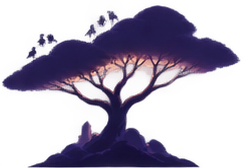
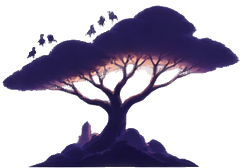
FLYWAY Phases 6-7: journey storytelling, homecoming murmuration, results
Phase 6: roost clarifies on the horizon from mid-game and grows with real
progress; dusk warmth overlay ramps across the Day (no progress bar).
Phase 7: final approach — waves of birds JOIN the controllable flock (sim
cap 320) plus ~260 echo birds that trail leaders for visual mass in the
hundreds; home chord swell; roost halo alpha-cleaned; prompts force-clear
at the finale. Results screen rework: Returned/Found/Lost + three stars
each with its reason ('96/110 required', 'n/m Perfect Flow passages').

diff --git a/src/scenes/ResultsScene.ts b/src/scenes/ResultsScene.ts
@@ -2,11 +2,11 @@ import Phaser from 'phaser'
 import { DayStats } from './DayScene'
 import { W as VIEW_W, H as VIEW_H } from '../backdrop'
 import { ART } from '../artManifest'
+import { DAY_NAME, FLOCK_STAR_RETURNED, FLOW_STAR_FRACTION } from '../config'
 
 /**
- * Restrained end-of-day rating. HOME always lights (you only arrive here by
- * reaching the roost); FLOCK rewards a strong return / good stray collection;
- * FLOW rewards a clean flight with few resets and few collisions.
+ * End-of-day rating. Every star shows WHY it was earned or missed — the
+ * player should leave knowing exactly what to improve.
  */
 export class ResultsScene extends Phaser.Scene {
   constructor() {
@@ -17,83 +17,77 @@ export class ResultsScene extends Phaser.Scene {
     const plate = ART['bg_plate']
     const cover = Math.max(VIEW_W / plate.w, VIEW_H / plate.h)
     this.add.image(VIEW_W / 2, VIEW_H / 2, 'bg_plate').setDisplaySize(plate.w * cover, plate.h * cover)
-    this.add.rectangle(0, 0, VIEW_W, VIEW_H, 0x1a1530, 0.35).setOrigin(0)
+    this.add.rectangle(0, 0, VIEW_W, VIEW_H, 0x1a1530, 0.38).setOrigin(0)
 
     const cx = VIEW_W / 2
-    const style = (size: number, color = '#f2e8f5', letterSpacing = 0) =>
-      ({
-        fontFamily: 'Georgia, serif',
-        fontSize: `${size}px`,
-        color,
-        letterSpacing,
-      }) as Phaser.Types.GameObjects.Text.TextStyle
+    const style = (size: number, color = '#f2e8f5', ls = 0) =>
+      ({ fontFamily: 'Georgia, serif', fontSize: `${size}px`, color, letterSpacing: ls }) as Phaser.Types.GameObjects.Text.TextStyle
 
-    const title = this.add.text(cx, 150, 'DAY 1 — HOME', style(38, '#f2e8f5', 6)).setOrigin(0.5).setAlpha(0)
+    const title = this.add.text(cx, 128, `${DAY_NAME} — HOME`, style(38, '#f7f0ea', 6)).setOrigin(0.5).setAlpha(0)
 
-    const returned = this.add
-      .text(cx, 250, `Returned    ${stats.returned}`, style(24))
-      .setOrigin(0.5)
-      .setAlpha(0)
-    const found = this.add
-      .text(cx, 288, `Found    ${stats.found}`, style(24, '#d8c8dc'))
-      .setOrigin(0.5)
-      .setAlpha(0)
+    // ---- the three numbers that tell the story of the run
+    const rows: Array<[string, string, string]> = [
+      ['Returned', String(stats.returned), '#f2e8f5'],
+      ['Found', `+${stats.found}`, '#ffd9a0'],
+      ['Lost', String(stats.lost), '#c9a2a2'],
+    ]
+    const rowObjs: Phaser.GameObjects.Text[] = []
+    rows.forEach(([k, v, c], i) => {
+      const y = 218 + i * 40
+      rowObjs.push(this.add.text(cx - 30, y, k, style(21, '#cdbdd4')).setOrigin(1, 0.5).setAlpha(0))
+      rowObjs.push(this.add.text(cx + 30, y, v, style(24, c)).setOrigin(0, 0.5).setAlpha(0))
+    })
 
-    const homeStar = stats.returned > 0
-    const flockStar = stats.returned >= 100 || stats.found >= 20
-    const flowStar = stats.collisionEvents <= 12 && stats.resets === 0
+    // ---- stars, each with its reason
+    const flowNeeded = Math.max(1, Math.ceil(stats.flowTotal * FLOW_STAR_FRACTION))
+    const homeStar = true // reaching this scene IS reaching the roost
+    const flockStar = stats.returned >= FLOCK_STAR_RETURNED
+    const flowStar = stats.flow >= flowNeeded
 
-    const starRow = this.add.container(cx, 400).setAlpha(0)
-    const labels = [
+    const reasons: Array<[string, boolean, string]> = [
       ['HOME', homeStar, 'Reached the roost.'],
-      ['FLOCK', flockStar, 'Returned strong, or gathered the optional birds.'],
-      ['FLOW', flowStar, 'Clean flight — few collisions, no resets.'],
-    ] as const
-    labels.forEach(([label, earned], i) => {
-      const x = (i - 1) * 220
-      const star = this.add
-        .text(x, 0, earned ? '★' : '☆', {
-          fontFamily: 'Georgia, serif',
-          fontSize: '44px',
-          color: earned ? '#f6d9b8' : '#5c5270',
-        })
-        .setOrigin(0.5)
-      const lab = this.add
-        .text(x, 42, label, { fontFamily: 'Georgia, serif', fontSize: '14px', color: '#d8c8dc', letterSpacing: 3 } as Phaser.Types.GameObjects.Text.TextStyle)
-        .setOrigin(0.5)
-      starRow.add([star, lab])
+      [
+        'FLOCK',
+        flockStar,
+        flockStar ? `Returned with ${stats.returned} birds.` : `${stats.returned} / ${FLOCK_STAR_RETURNED} required`,
+      ],
+      ['FLOW', flowStar, `${stats.flow} / ${stats.flowTotal} Perfect Flow passages`],
+    ]
+
+    const starRow = this.add.container(cx, 452).setAlpha(0)
+    reasons.forEach(([label, earned, why], i) => {
+      const x = (i - 1) * 320
+      starRow.add(
+        this.add
+          .text(x, 0, earned ? '★' : '☆', { fontFamily: 'Georgia, serif', fontSize: '46px', color: earned ? '#f6d9b8' : '#5c5270' })
+          .setOrigin(0.5),
+      )
+      starRow.add(this.add.text(x, 46, label, style(15, '#dccce0', 4)).setOrigin(0.5))
+      starRow.add(this.add.text(x, 74, why, style(13, earned ? '#c9b8a2' : '#a08f96')).setOrigin(0.5))
     })
 
     const earnedCount = [homeStar, flockStar, flowStar].filter(Boolean).length
     const overall = this.add
-      .text(cx, 470, '★'.repeat(earnedCount) + '☆'.repeat(3 - earnedCount), {
-        fontFamily: 'Georgia, serif',
-        fontSize: '30px',
-        color: '#f6d9b8',
-      })
+      .text(cx, 588, '★'.repeat(earnedCount) + '☆'.repeat(3 - earnedCount), style(32, '#f6d9b8'))
       .setOrigin(0.5)
       .setAlpha(0)
 
     const replay = this.add
-      .text(cx, 560, 'REPLAY DAY', style(18, '#f2e8f5', 4))
+      .text(cx, 680, 'REPLAY DAY', style(22, '#f7f0ea', 5))
       .setOrigin(0.5)
       .setAlpha(0)
       .setInteractive({ useHandCursor: true })
-    const replayHint = this.add
-      .text(cx, 590, 'click, or press R', { fontFamily: 'Georgia, serif', fontSize: '13px', color: '#a597ae' })
-      .setOrigin(0.5)
-      .setAlpha(0)
-
-    replay.on('pointerover', () => replay.setColor('#f6d9b8'))
-    replay.on('pointerout', () => replay.setColor('#f2e8f5'))
+    const replayHint = this.add.text(cx, 712, 'click, or press R', style(13, '#a597ae')).setOrigin(0.5).setAlpha(0)
+    replay.on('pointerover', () => replay.setColor('#ffe6bf'))
+    replay.on('pointerout', () => replay.setColor('#f7f0ea'))
     const restart = () => this.scene.start('Day')
     replay.on('pointerdown', restart)
     this.input.keyboard?.once('keydown-R', restart)
 
-    this.tweens.add({ targets: title, alpha: 0.95, duration: 900 })
-    this.tweens.add({ targets: [returned, found], alpha: 0.9, duration: 900, delay: 500 })
+    this.tweens.add({ targets: title, alpha: 0.96, duration: 900 })
+    this.tweens.add({ targets: rowObjs, alpha: 0.92, duration: 800, delay: 500 })
     this.tweens.add({ targets: starRow, alpha: 1, duration: 900, delay: 1100 })
     this.tweens.add({ targets: overall, alpha: 1, duration: 700, delay: 1900 })
-    this.tweens.add({ targets: [replay, replayHint], alpha: 0.85, duration: 700, delay: 2400 })
+    this.tweens.add({ targets: [replay, replayHint], alpha: 0.9, duration: 700, delay: 2400 })
   }
 }

diff --git a/src/scenes/DayScene.ts b/src/scenes/DayScene.ts
@@ -5,6 +5,7 @@ import { StrayGroup } from '../strays'
 import { ScatterSystem } from '../scatter'
 import { GameAudio } from '../audio'
 import { FalconSystem } from '../falcon'
+import { birdFrameKey } from '../textures'
 import { ART } from '../artManifest'
 import {
   FEATURES,
@@ -90,6 +91,11 @@ export class DayScene extends Phaser.Scene {
   private fgBranch!: Phaser.GameObjects.Image
   private fgColumn!: Phaser.GameObjects.Image
   private colliderGfx!: Phaser.GameObjects.Graphics
+  private roostHorizon!: Phaser.GameObjects.Image
+  private warmth!: Phaser.GameObjects.Rectangle
+  /** decorative echo birds that swell the final murmuration into the hundreds */
+  private echoes: { img: Phaser.GameObjects.Image; leader: Bird; dx: number; dy: number; ph: number }[] = []
+  private joinTimer = 0
 
   private scrollX = 0
   private countText!: Phaser.GameObjects.Text
@@ -144,6 +150,8 @@ export class DayScene extends Phaser.Scene {
     this.strays = []
     this.ambientFlocks = []
     this.roostSwirl = []
+    this.echoes = []
+    this.joinTimer = 0
     this.parallax = []
     this.featureSprites.clear()
     this.obstacleFeature.clear()
@@ -196,6 +204,23 @@ export class DayScene extends Phaser.Scene {
       .setScrollFactor(0)
       .setAlpha(0.14)
       .setDepth(-4)
+
+    // the roost, faint on the horizon from mid-game — WE'RE GETTING CLOSE
+    this.roostHorizon = this.add
+      .image(VIEW_W * 0.82, 742, 'roost_tree')
+      .setOrigin(0.5, 1)
+      .setDisplaySize(90, 64)
+      .setAlpha(0)
+      .setScrollFactor(0)
+      .setDepth(-5)
+    // dusk warms across the day (screen-space, restrained)
+    this.warmth = this.add
+      .rectangle(0, 0, VIEW_W, VIEW_H, 0xff9a5c)
+      .setOrigin(0)
+      .setScrollFactor(0)
+      .setBlendMode(Phaser.BlendModes.OVERLAY)
+      .setDepth(7.5)
+      .setAlpha(0)
 
     // ---- obstacles: colliders from the manifest, sprites placed over them
     const built = buildObstacles()
@@ -463,8 +488,6 @@ export class DayScene extends Phaser.Scene {
     // soft distant swirl behind the tree, then the tree itself
     this.add.image(ROOST_X - 60, ROOST_Y - 190, 'flock_swirl').setDisplaySize(420, 420).setAlpha(0.5).setDepth(1.6)
     this.add.image(ROOST_X, 892, 'roost_tree').setOrigin(0.5, 1).setDisplaySize(860, 600).setDepth(2)
-    this.add.image(ROOST_X - 260, 806, 'spark_strand').setDisplaySize(46, 140).setAlpha(0.8).setDepth(2.1)
-    this.add.image(ROOST_X + 300, 780, 'spark_strand').setDisplaySize(40, 120).setAlpha(0.7).setDepth(2.1)
     for (let i = 0; i < 30; i++) {
       const sprite = this.add.image(ROOST_X, ROOST_Y, 'bird-mid').setScale(0.16).setDepth(2)
       this.roostSwirl.push({
@@ -596,6 +619,16 @@ export class DayScene extends Phaser.Scene {
     this.updateMovers(time)
     this.updateFlowGates()
     this.updateMotes()
+    // environmental progress storytelling: roost clarifies, light warms,
+    // distant flocks appear late — never a progress bar
+    const prog = Phaser.Math.Clamp(this.flock.centerX / ROOST_X, 0, 1)
+    if (prog > 0.42) {
+      const t01 = Phaser.Math.Clamp((prog - 0.42) / 0.5, 0, 1)
+      this.roostHorizon.setAlpha(Math.min(0.55, t01 * 0.55))
+      const grow = 90 + t01 * 130
+      this.roostHorizon.setDisplaySize(grow, grow * 0.72)
+    }
+    this.warmth.setAlpha(prog * 0.16)
     this.updateRoostSwirl(dt, time)
     this.updateAmbientFlocks(dt)
 
@@ -1084,18 +1117,68 @@ export class DayScene extends Phaser.Scene {
   }
 
   private checkFinish(dt: number): void {
+    // FINAL MURMURATION: distant flocks converge and JOIN the player's flock
+    const cx = this.flock.centerX
+    if (!this.finishing && cx > ROOST_X - 1500 && cx < ROOST_X - 200) {
+      this.joinTimer -= dt
+      if (this.joinTimer <= 0) {
+        this.joinTimer = 0.35
+        // real sim birds up to a perf-safe cap...
+        if (this.flock.count < 320) {
+          for (let i = 0; i < 5; i++) {
+            const side = Math.random() < 0.5 ? -1 : 1
+            this.flock.spawnBird(
+              cx + rand(300, 700) * side * 0.6 + 200,
+              this.flock.centerY + rand(-320, 320),
+              180,
+              rand(-40, 40),
+            )
+          }
+        }
+        // ...plus echo birds for visual mass into the hundreds
+        if (this.echoes.length < 260 && this.flock.birds.length > 0) {
+          for (let i = 0; i < 9; i++) {
+            const leader = this.flock.birds[(Math.random() * this.flock.birds.length) | 0]
+            const img = this.add
+              .image(leader.x + rand(-60, 60), leader.y + rand(-50, 50), 'bird-mid')
+              .setScale(rand(0.13, 0.2))
+              .setAlpha(rand(0.5, 0.8))
+              .setDepth(3.5)
+            this.echoes.push({ img, leader, dx: rand(-70, 70), dy: rand(-56, 56), ph: rand(0, 6) })
+          }
+        }
+        if (this.echoes.length === 9) this.audio.homeSwell()
+      }
+    }
+    // echoes trail their leaders — hundreds of birds for the cost of a lerp
+    const t = this.game.loop.time / 1000
+    for (const e of this.echoes) {
+      if (!e.leader.alive) {
+        if (this.flock.birds.length === 0) continue
+        e.leader = this.flock.birds[(Math.random() * this.flock.birds.length) | 0]
+      }
+      const wob = Math.sin(t * 2.2 + e.ph) * 7
+      e.img.x += (e.leader.x + e.dx + wob - e.img.x) * 0.12
+      e.img.y += (e.leader.y + e.dy + wob * 0.6 - e.img.y) * 0.12
+      e.img.rotation = e.leader.sprite.rotation
+      e.img.setTexture(birdFrameKey(t, e.ph, 9))
+    }
+
     if (this.finishing) {
       this.finishTimer += dt
-      if (this.finishTimer > 6) {
+      if (this.finishTimer > 7.5) {
         this.stats.returned = this.flock.count
         this.scene.start('Results', this.stats)
       }
       return
     }
-    if (this.flock.centerX >= ROOST_X - 280) {
+    if (cx >= ROOST_X - 240) {
       this.finishing = true
+      this.promptText.setAlpha(0)
+      this.prompt = null
       this.showPrompt('home', 'home', () => this.finishTimer > 3)
       this.audio.chime(392, 0.3)
+      this.audio.warmth(1)
     }
   }
 }

diff --git a/src/audio.ts b/src/audio.ts
@@ -88,6 +88,32 @@ export class GameAudio {
     o.stop(t + 0.25)
   }
 
+  /** The homecoming: the fullest musical moment — a slow warm chord swell. */
+  homeSwell(): void {
+    if (!this.ctx) return
+    const ctx = this.ctx
+    const t = ctx.currentTime
+    this.master.gain.setTargetAtTime(0.3, t, 2.0)
+    // slow major-add9 pad blooming under everything
+    const notes = [196, 246.9, 293.7, 392, 440]
+    notes.forEach((f, i) => {
+      const o = ctx.createOscillator()
+      o.type = 'triangle'
+      o.frequency.value = f
+      const g = ctx.createGain()
+      g.gain.setValueAtTime(0, t + i * 0.4)
+      g.gain.linearRampToValueAtTime(0.035, t + i * 0.4 + 2.2)
+      g.gain.linearRampToValueAtTime(0.022, t + 12)
+      g.gain.linearRampToValueAtTime(0.0001, t + 16)
+      const lp = ctx.createBiquadFilter()
+      lp.type = 'lowpass'
+      lp.frequency.value = 900
+      o.connect(lp).connect(g).connect(this.master)
+      o.start(t + i * 0.4)
+      o.stop(t + 16.2)
+    })
+  }
+
   /** Falcon telegraph: distant descending screech; the music thins under it. */
   falconScreech(): void {
     if (!this.ctx) return
